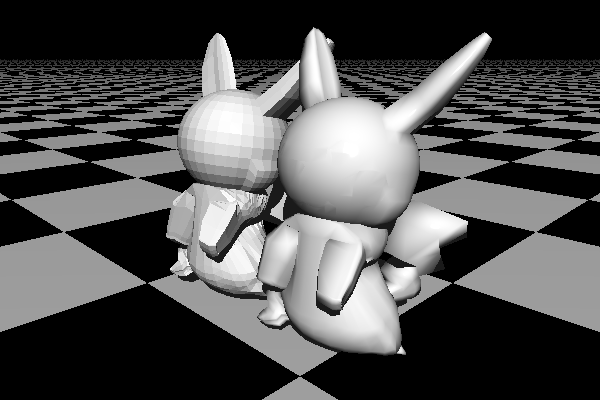
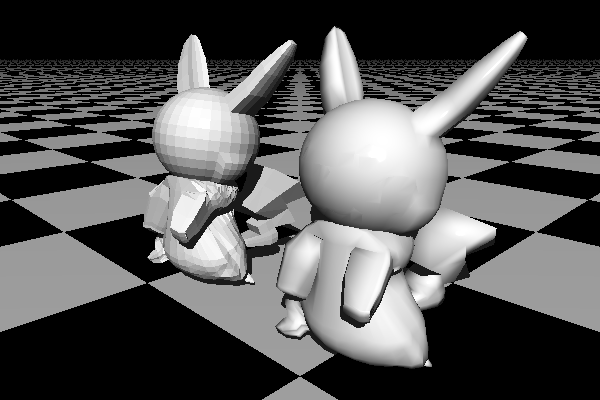
Chapter 15: triangles (smooth triangles)

Changed region(s): [[0.24, 0.06, 0.9, 0.93]]

diff --git a/ray-tracer-demos/Program.cs b/ray-tracer-demos/Program.cs
@@ -33,12 +33,12 @@ namespace ray_tracer_demos
 
             ObjFileReader smoothPikachuObj = new ObjFileReader("pikachu.obj", true);
             var smoothPikachu = smoothPikachuObj.ObjToGroup();
-            smoothPikachu.Rotate(ry: Math.PI);
+            smoothPikachu.Rotate(ry: Math.PI).Translate(tx: 0.5);
             world.Add(smoothPikachu);
 
             ObjFileReader pikachuObj = new ObjFileReader("pikachu.obj", false);
             var pikachu = pikachuObj.ObjToGroup();
-            pikachu.Rotate(ry: Math.PI).Translate(tx: -3);
+            pikachu.Rotate(ry: Math.PI).Translate(tx: -4);
             world.Add(pikachu);
             
             var point = Helper.CreatePoint(10, 10, -10)/2;
